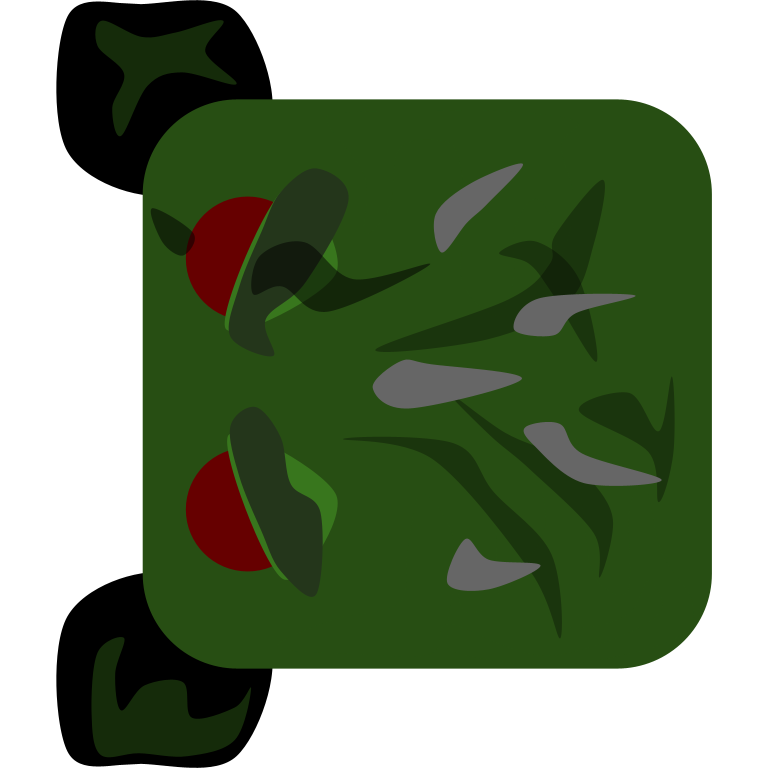
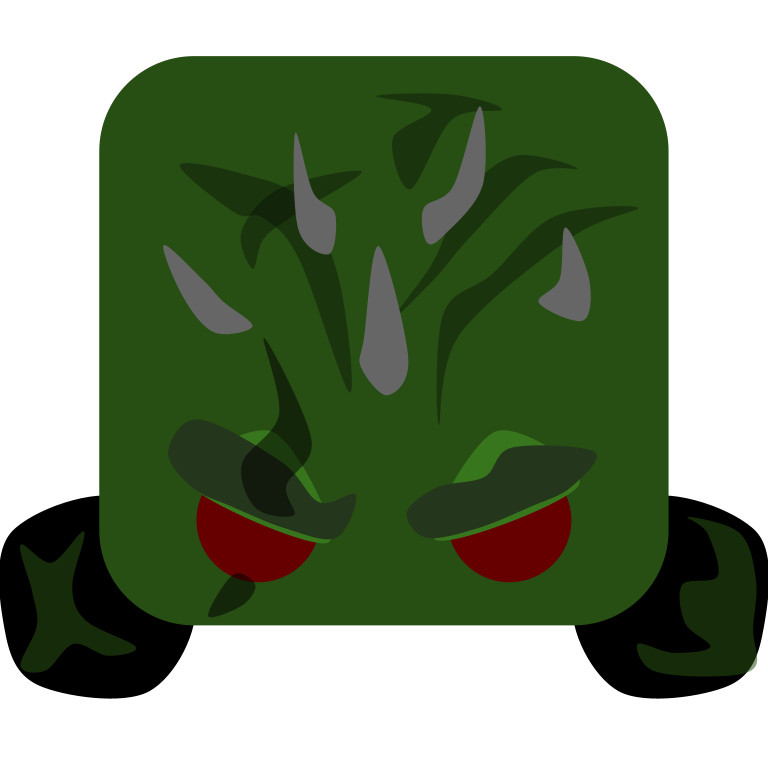
Clean up rotation code. make all players face south by default

diff --git a/app.js b/app.js
@@ -41,6 +41,7 @@ var maxLoad = 750 //most px a player can see
 //Render is slowerm so runs at x[speedFactor] as fast
 //ENTITIES speed not affected
 const maxImmuneDuration = 10000 //* speedFactor//
+const swordRotation = 45/57.1
 const holdableItems = {
     "Hand":{
         name:"Hand", // MUST MATCH KEY!
@@ -66,7 +67,7 @@ const holdableItems = {
         maxDurability:30,
         damage:25,
         generationProbability:50, //out of 100
-        rotation:-45/57.1,
+        rotation:swordRotation,
         stackSize:1,
         maxStackSize:1,
         cost: 2000, //market value
@@ -82,7 +83,7 @@ const holdableItems = {
         maxDurability:20,
         damage:30,
         generationProbability:30, //out of 100
-        rotation:-45/57.1,
+        rotation:swordRotation,
         stackSize:1,
         maxStackSize:1,
         cost: 3500, //market value
@@ -98,7 +99,7 @@ const holdableItems = {
         maxDurability:60,
         damage:40,
         generationProbability:10, //out of 100
-        rotation:-45/57.1,
+        rotation:swordRotation,
         stackSize:1,
         maxStackSize:1,
         cost: 5000, //market value
@@ -114,7 +115,7 @@ const holdableItems = {
         maxDurability:100,
         damage:50,
         generationProbability:1, //out of 100
-        rotation:-45/57.1,
+        rotation:swordRotation,
         stackSize:1,
         maxStackSize:1,
         cost: 10_000, //market value
@@ -130,7 +131,7 @@ const holdableItems = {
         maxDurability:200,
         damage:80,
         generationProbability:0.1, // 1 in 1000
-        rotation:-45/57.1, //rad
+        rotation:swordRotation, //rad
         stackSize:1,
         maxStackSize:1,
         cost: 30_000, //market value
@@ -163,7 +164,7 @@ const holdableItems = {
         maxDurability:100,
         damage: "Max 21", //check createArrow's damage
         generationProbability:10, //out of 100
-        rotation:270/57.1,
+        rotation:0,
         stackSize:1,
         maxStackSize:1,
         cost: 1000, //market value
@@ -179,7 +180,7 @@ const holdableItems = {
         maxDurability:15,
         damage:80,
         generationProbability:1, //out of 100
-        rotation:270/57.1, //how looks like when held
+        rotation:0, //how looks like when held
         stackSize:1,
         maxStackSize:1,
         cost: 2500, //market value
@@ -195,7 +196,7 @@ const holdableItems = {
         maxDurability:null,
         damage:0,
         generationProbability:15, //out of 100
-        rotation:270/57.1, //how looks like when held
+        rotation:0, //how looks like when held
         stackSize:1,
         maxStackSize:2,
         cost: 2000, //market value
@@ -701,7 +702,11 @@ class Entity {
         this.x = x;
         this.y = y;
         this.type = type;
-        this.rotation = 0;
+        this.rotation = 0;               //changing this 
+                                         // changes nothing, 
+                                         //as rotation will be 
+                                         //set later...
+        this.defaultRotation = -Math.PI/2//...change this instead
         this.health = health; //current health
         this.maxHealth = health; //max health
         this.showH = true
@@ -960,7 +965,7 @@ class Enemy extends Entity{
         // UPDATE
         this.x += this.xInc
         this.y += this.yInc
-        this.rotation = Math.atan2(this.dy, this.dx) + Math.PI
+        this.rotation = Math.atan2(this.dy, this.dx) + this.defaultRotation
     }
 }
 class Boss extends Enemy{
@@ -1032,7 +1037,7 @@ class Archer extends Enemy{
                 this.status = "Attack"
                 this.dx = this.target.x - this.x;
                 this.dy = this.target.y - this.y;
-                this.rotation = Math.atan2(this.dy, this.dx) + Math.PI
+                this.rotation = Math.atan2(this.dy, this.dx) + this.defaultRotation
                 this.moving = true; //aka, dont stray from the player now...
                 //is the player still too far away to shoot?
                 if(distanceToTarget > this.shootRange){
@@ -1090,7 +1095,7 @@ class Archer extends Enemy{
     shootArrow(holdDuration){
         this.justAttacked = true //you just attacked... -_-
         let arrowOffsetMaxDeg = 10//deg // how many IN DEGREES +- can be offset shot
-        let arrowDirection = this.rotation + Math.PI + (random(1, -1) * (random(arrowOffsetMaxDeg, 0) * (Math.PI/180))) //possible +- 45 deg offset shot
+        let arrowDirection = this.rotation + this.defaultRotation + Math.PI + (random(1, -1) * (random(arrowOffsetMaxDeg, 0) * (Math.PI/180))) //possible +- 45 deg offset shot
         //SHOOT ARROW!
         //make da arrow
         createArrow(this, arrowDirection, holdDuration)
@@ -1709,7 +1714,7 @@ io.sockets.on("connection", (socket)=>{
                     
                 
             } else if(tool.name === "Spear"){
-                let spearDirection = player.rotation + Math.PI;
+                let spearDirection = player.rotation + player.defaultRotation + Math.PI;
                 
                 tool.durability -= 1
 
@@ -1804,7 +1809,7 @@ io.sockets.on("connection", (socket)=>{
                 // Shoot arrow
                 if (canShoot) {
                     player.inventory[player.invSelected].pic = `/imgs/Bow.png`
-                    let arrowDirection = player.rotation + Math.PI;
+                    let arrowDirection = player.rotation + player.defaultRotation + Math.PI;
                     
                     //make da arrow
                     createArrow(player, arrowDirection, holdDuration)

diff --git a/client/actions.js b/client/actions.js
@@ -173,17 +173,15 @@ function updateCanv(info, serverPlayerCount, leaderboard){
                     images[pic] = new Image()
                     images[pic].src = pic
                 }
-                let x= -item.width/2
-                let y= -item.height/2
                 let holdingIconSize = 50
+                let x = -item.width/2
+                let y = item.height/2
                 ctx.translate(x,y)
-                ctx.rotate(heldItem.rotation)
-                if(false){ //debug
-                    ctx.fillStyle= "red"
-                    ctx.fillRect(0,0,10,10)
-                    ctx.strokeRect(-25,-25,holdingIconSize,holdingIconSize)
-                }
-                ctx.drawImage(images[pic],-25,-25,holdingIconSize,holdingIconSize)
+                //all items default rotated by Math.PI
+                ctx.rotate(Math.PI + heldItem.rotation)
+                //ctx.fillStyle="red"
+                //ctx.fillRect(-5,-5,10,10)
+                ctx.drawImage(images[pic],-holdingIconSize/2,-holdingIconSize/2,holdingIconSize,holdingIconSize)
                 
             }
         }
@@ -804,8 +802,8 @@ function performActions() {
         let allDrop = "control" in keySet //+ ctrl to drop all
         socket.emit("drop", {
             playerInvI: currInvSlot,
-            x: player.x - Math.cos(player.rotation) * entitySize * 2,
-            y: player.y - Math.sin(player.rotation) * entitySize * 2,
+            x: player.x - Math.cos(player.rotation + player.defaultRotation) * entitySize * 2,
+            y: player.y - Math.sin(player.rotation + player.defaultRotation) * entitySize * 2, //defaultRotation needs to be included because that's the default, etc. at 0. rotation is just the current rotation
             allDrop : allDrop
         });
         delete keySet["q"] //drop 1 only!
@@ -833,8 +831,8 @@ function performActions() {
         tx = ty = 0;
     } else if (keySet[" "]) { 
         //player rotation must be adjusted 180 deg (PI rad)
-        tx = Math.cos(player.rotation + Math.PI) * player.speed;
-        ty = Math.sin(player.rotation + Math.PI) * player.speed;
+        tx = Math.cos(player.rotation + player.defaultRotation + Math.PI) * player.speed;
+        ty = Math.sin(player.rotation + player.defaultRotation + Math.PI) * player.speed;
     } else { // If movement keys are pressed, handle movement
         tx = (keySet["d"] || keySet["arrowright"]) ? player.speed : (keySet["a"] || keySet["arrowleft"]) ? -player.speed : 0;
         ty = (keySet["s"] || keySet["arrowdown"]) ? player.speed : (keySet["w"] || keySet["arrowup"]) ? -player.speed : 0;
@@ -1162,7 +1160,7 @@ function startGame(){
                 player.x += tx
                 player.y += ty
                 player.invSelected = currInvSlot
-                player.rotation = (Math.atan2(mouse.y, mouse.x)) + Math.PI
+                player.rotation = (Math.atan2(mouse.y, mouse.x)) + player.defaultRotation
                 socket.emit("updatePlayer", {
                     player:player,
                     reorder: reorderInventory
